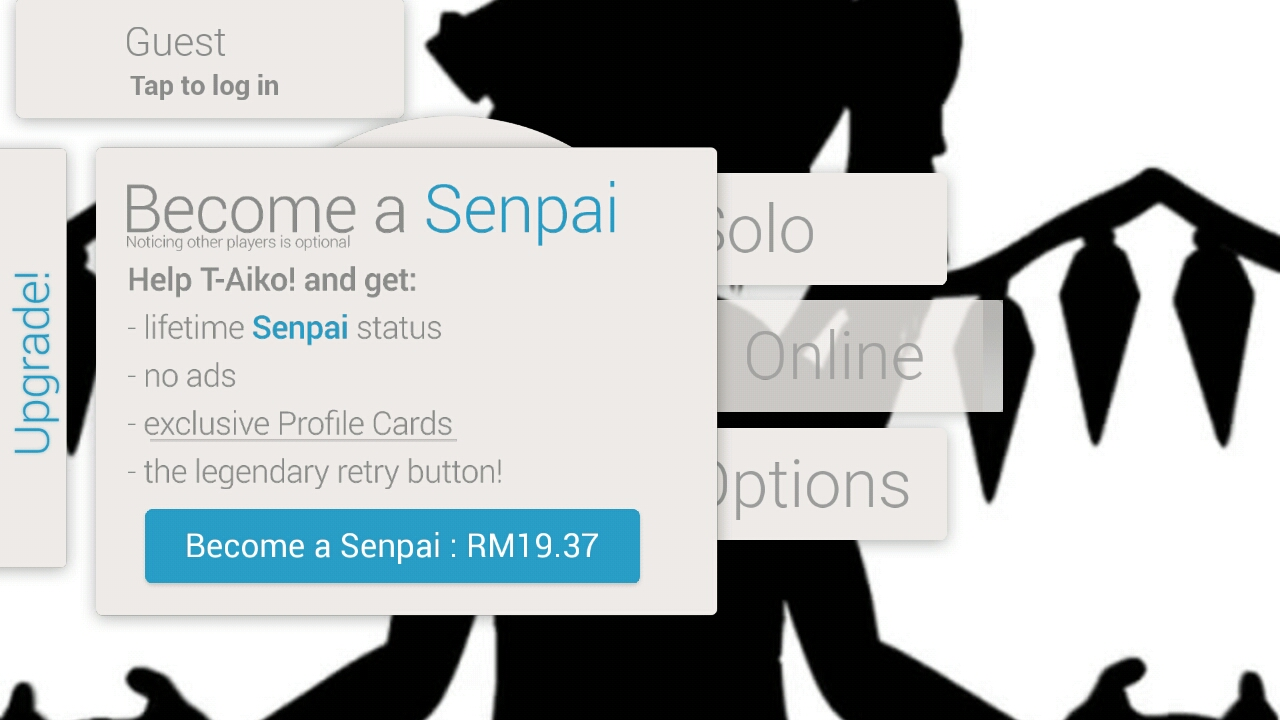
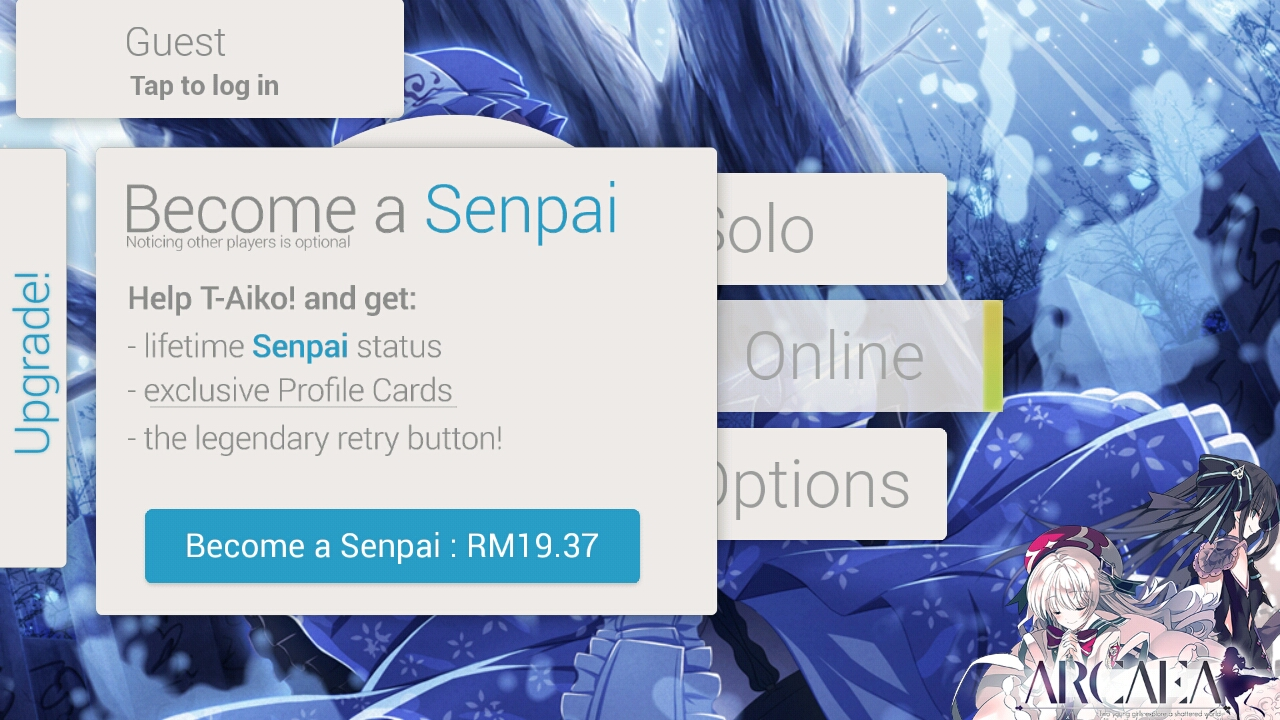
T-Aikov2 2.4.0 update

diff --git a/wiki/Game_Modes/External_Ports/T-Aiko!/en.md b/wiki/Game_Modes/External_Ports/T-Aiko!/en.md
@@ -6,7 +6,9 @@
 <!-- external -->
 [Taiko no Tatsujin wikipedia]: https://en.wikipedia.org/wiki/Taiko_no_Tatsujin "Wikipedia entry for Taiko no Tatsujin"
 [Install post]: http://osu.ppy.sh/forum/t/58640
+[Arcaea link]: https://arcaea.lowiro.com/ "Arcaea main page by lowiro team"
 [tagi pixiv]: http://www.pixiv.net/member.php?id=9901180 "tagi"
+[cierra pixiv]: http://www.pixiv.net/member.php?id=2948941 "シエラ (cierra)"
 [Charlotte anime]: https://en.wikipedia.org/wiki/Charlotte_(anime) "Charlotte"
 [Touhou link]: https://en.wikipedia.org/wiki/Touhou_Project)
 
@@ -31,6 +33,8 @@
 # T-Aiko v2
 
 **[Click here to return to External Ports index page](../ "External Ports index page")**
+
+**Note:** Information is accurate as of version 2.4.0 update (10/11 March 2017, 2017-03-10/11, for Android/iOS respectively)
 
 ![T-Aiko v2 logo][T-Aiko v2 logo]
 
@@ -96,10 +100,10 @@ Unless for a good reason (such as re-installing T-Aiko v1 from a backup applicat
 
 ### iOS-specific
 
-**iTunes**
+**_iTunes_**
 
 - Refer to [wikiHow entry](http://www.wikihow.com/Install-an-iPhone-Application).
-  - [iTunes page for T-Aiko!](https://itunes.apple.com/us/app/t-aiko!/id1060358610?ls=1&mt=8).
+  - [_iTunes_ page for T-Aiko!](https://itunes.apple.com/us/app/t-aiko!/id1060358610?ls=1&mt=8).
 
 ## Adding Beatmaps
 
@@ -114,7 +118,7 @@ Unless for a good reason (such as re-installing T-Aiko v1 from a backup applicat
 - New beatmaps are now playable.
 
 **Note:** For iOS, this generic method only work if the device has been jailbroken.
-If the device has not been modified in any way, please use iTunes.
+If the device has not been modified in any way, please use _iTunes_.
 
 ### Android-specific
 
@@ -150,19 +154,15 @@ If the device has not been modified in any way, please use iTunes.
 
 ### iOS-specific
 
-**iTunes**
+**_iTunes_**
 
 - Refer to [Apple's official entry](https://support.apple.com/en-ap/HT201301) or [howtogeek entry](http://www.howtogeek.com/215969/use-itunes-file-sharing-to-copy-files-back-and-forth-with-apps-on-your-iphone-or-ipad/).
-  - Alternatively, ["iTunes App File Sharing" search](http://lmgtfy.com/?q=iTunes+App+File+Sharing).
+  - Alternatively, ["_iTunes_ App File Sharing" search](http://lmgtfy.com/?q=iTunes+App+File+Sharing).
 
 ## What is the difference?
 
 ### General
-- This game is supported by advertisements.
-  - To remove the advertisement permanently, please apply for "Senpai" upgrade.
-  - The advertisement usually pops up once a difficulty was completed and directed to the results screen.
-  - There will always be five (5) seconds cooldown time before being allowed to return to the song selection.
-- The game itself cannot be skinned currently.
+- The game itself cannot be skinned.
 - Video and Storyboard are unsupported.
 
 ### Song Selection
@@ -192,11 +192,11 @@ _Song Selection screen for Online (Daily) mode._
 
 Playmode | Solo | Online (Daily)
 ---|---|---
-**Requirement** | (none) | Profile and Internet Connection
-**Ranking?** | No (considered as offline play) | Yes.
+**Requirement**      | (none) | Profile and Internet Connection
+**Ranking?**         | No (considered as offline play) | Yes.
 **Direct download?** | No (redirect to external beatmap site by preferred browser) | Yes (background, notice given when done, full download)
-**Playable list?** | Beatmaps stored in device | Beatmaps stored in device (if same) or blank beatmap list to be downloaded
-**List update?** | Manual | Single beatmapset daily added to online list
+**Playable list?**   | Beatmaps stored in device | Beatmaps stored in device (if same) or blank beatmap list to be downloaded
+**List update?**     | Manual | Single beatmapset daily added to online list
 
 ### Gameplay-wise
 
@@ -209,14 +209,14 @@ Playmode | Solo | Online (Daily)
 
 ## Profile tab
 
-Implementation: Build 2.1.1 (09.09.2015)
+Implementation: Build 2.1.1 (09 September 2015, 2015-09-09)
 
 Logged-in T-Aiko! profile. Tap on the profile tab in Main Menu to pick the profile card.
 
 ### Cards
 
 **Profile Cards** are image card for the profile.
-Currently limited to 14 cards.
+Currently limited to 16 cards.
 
 ![List of profile cards available][PC image]
 
@@ -228,27 +228,27 @@ Read from left-to-right, top-to-bottom
 
 Artist|Name|Source|Senpai only?
 ---|---|---|---
+[シエラ (cierra)][cierra pixiv]|対立 (Tairitsu/Conflict)|[Arcaea][Arcaea link]|Y
+[シエラ (cierra)][cierra pixiv]|光 (Hikaru/Light)|[Arcaea][Arcaea link]|Y
 Guy-kun|?|Original|Y
 T-Aiko! original|T-Aiko!|Original|
 T-Aiko! original|PSP!|Sony PSP|
 [tagi][tagi pixiv] ([pixiv source](http://www.pixiv.net/member_illust.php?mode=medium&illust_id=53290273))|[Yuyuko Saigyouji](http://en.touhouwiki.net/wiki/Yuyuko_Saigyouji)|[Touhou][Touhou link]|
 [tagi][tagi pixiv] ([pixiv source](http://www.pixiv.net/member_illust.php?mode=medium&illust_id=53067674))|[Misa Kurobane](http://charlotte-anime.wikia.com/wiki/Misa_Kurobane)|[Charlotte][Charlotte anime]|Y
 [tagi][tagi pixiv] ([pixiv source](http://www.pixiv.net/member_illust.php?mode=medium&illust_id=47166331))|[Remilia Scarlet](http://en.touhouwiki.net/wiki/Remilia_Scarlet)|[Touhou][Touhou link]|
-[tagi][tagi pixiv] ([pixiv source](http://www.pixiv.net/member_illust.php?mode=medium&illust_id=49995738))|[Isuzu Sento](http://amaburi.wikia.com/wiki/Isuzu_Sento) ([Hestia](http://dungeon-ni-deai-o-motomeru.wikia.com/wiki/Hestia) cosplay)|[Amaburi](http://myanimelist.net/anime/22147/Amagi_Brilliant_Park) (cosplay: [DanMachi](http://myanimelist.net/anime/28121/Dungeon_ni_Deai_wo_Motomeru_no_wa_Machigatteiru_Darou_ka))|
-[tagi][tagi pixiv] ([pixiv source](http://www.pixiv.net/member_illust.php?mode=medium&illust_id=48591367))|[Rin Tohsaka](http://typemoon.wikia.com/wiki/Rin_Tohsaka)|[Fate series](http://typemoon.wikia.com/wiki/Fate_series)|Y
 
 #### Second Row
 
 Artist|Name|Source|Senpai only?
 ---|---|---|---
+[tagi][tagi pixiv] ([pixiv source](http://www.pixiv.net/member_illust.php?mode=medium&illust_id=49995738))|[Isuzu Sento](http://amaburi.wikia.com/wiki/Isuzu_Sento) ([Hestia](http://dungeon-ni-deai-o-motomeru.wikia.com/wiki/Hestia) cosplay)|[Amaburi](http://myanimelist.net/anime/22147/Amagi_Brilliant_Park) (cosplay: [DanMachi](http://myanimelist.net/anime/28121/Dungeon_ni_Deai_wo_Motomeru_no_wa_Machigatteiru_Darou_ka))|
+[tagi][tagi pixiv] ([pixiv source](http://www.pixiv.net/member_illust.php?mode=medium&illust_id=48591367))|[Rin Tohsaka](http://typemoon.wikia.com/wiki/Rin_Tohsaka)|[Fate series](http://typemoon.wikia.com/wiki/Fate_series)|Y
 [tagi][tagi pixiv] ([pixiv source](http://www.pixiv.net/member_illust.php?mode=medium&illust_id=51272401))|[Aoi Yamada](http://wagnaria.wikia.com/wiki/Aoi_Yamada)|[Working!!](http://myanimelist.net/anime/6956/Working!!)|
 [tagi][tagi pixiv]|?|Original|
 [tagi][tagi pixiv] ([pixiv source](http://www.pixiv.net/member_illust.php?mode=medium&illust_id=50787988))|[Murakumo Kai Ni](http://kancolle.wikia.com/wiki/Murakumo)|[KanColle](https://en.wikipedia.org/wiki/Kantai_Collection)|
 [tagi][tagi pixiv]|?|Original|
 [tagi][tagi pixiv]|?|Original|
 [tagi][tagi pixiv]|?|Original|
-|||
-|||
 
 ### Borders
 
@@ -340,7 +340,6 @@ Volume|Set the volume of sound effects [0% - 100%] (default 70%)| +/- 10% per cl
 _Senpai (USD$ 4.49)_
 
 - Senpai-only profile cards.
-- No advertisement.
 - Retry button.
 - Senpai with heart image on the profile tab.
 
@@ -370,6 +369,16 @@ Notes:-
 
 ### Can I use the old T-Aiko/osu!droid account?
 **No.**
+
+## Trivia
+
+### History
+
+- T-Aikov2 used to be supported by advertisements until 10/11 March 2017 (2017-03-10/11) update (version 2.4.0), where all the advertisements has been removed.
+  - Before that update, the only way to remove the advertisement permanently is by applying for the _Senpai_ upgrade.
+  - The advertisement usually pops up once a difficulty was completed and directed to the results screen.
+  - There will always be five (5) seconds cooldown time before being allowed to return to the song selection.
+  - The advertisement does not pop-up when played offline.
 
 ## Links
 - [Official forum post](http://osu.ppy.sh/forum/t/58640)

diff --git a/wiki/Game_Modes/External_Ports/T-Aiko!/Interface/en.md b/wiki/Game_Modes/External_Ports/T-Aiko!/Interface/en.md
@@ -15,7 +15,7 @@
 [T2-SSblank.jpg]: /wiki/Game_Modes/External_Ports/T-Aiko!/img/T2-SSblank.jpg "Song Selection (blank)"
 [T2-SSDL.jpg]: /wiki/Game_Modes/External_Ports/T-Aiko!/img/T2-SSDL.jpg "Download stream"
 [T2-DELETE.jpg]: /wiki/Game_Modes/External_Ports/T-Aiko!/img/T2-DELETE.jpg "Delete screen"
-[T2-Gameplay.jpg]: /wiki/Game_Modes/External_Ports/T-Aiko!/img/T2-Gameplay.jpg "Gameplay example"
+[T2-Gameplay.png]: /wiki/Game_Modes/External_Ports/T-Aiko!/img/T2-Gameplay.png "Gameplay example"
 [T2-Spinner.jpg]: /wiki/Game_Modes/External_Ports/T-Aiko!/img/T2-Spinner.jpg "Spinner"
 [T2-Paused.jpg]: /wiki/Game_Modes/External_Ports/T-Aiko!/img/T2-Paused.jpg "Paused screen"
 [T2-Failed.jpg]: /wiki/Game_Modes/External_Ports/T-Aiko!/img/T2-Failed.jpg "Failed screen"
@@ -83,7 +83,7 @@ _Delete screen_
 
 ---
 
-![Gameplay example][T2-Gameplay.jpg]
+![Gameplay example][T2-Gameplay.png]
 
 _Gameplay example_
 
